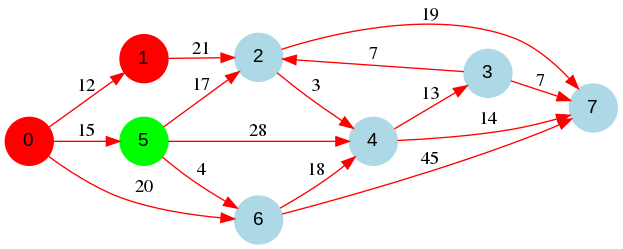
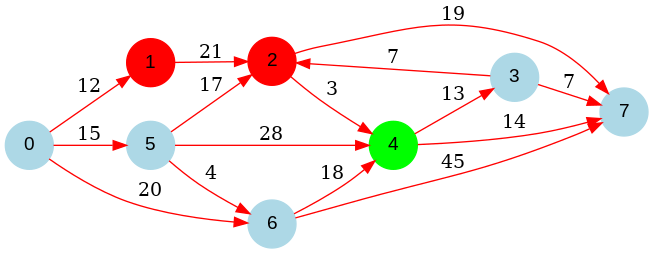
Correction pour un sommet de départ différent de 0

diff --git a/programme1/main.c b/programme1/main.c
@@ -81,7 +81,7 @@ void courtChemie(T_graphMD * g, int * D, int * T, int * Pred, int sr, char * fil
   int indiceDansF[g->nbVertices];
 
   for(u=0;u<g->nbVertices;u++) {
-    Pred[u] = 0;
+    Pred[u] = -1;
     if(u == sr) {
       D[u] = 0;
       F[0] = u;
@@ -97,13 +97,15 @@ void courtChemie(T_graphMD * g, int * D, int * T, int * Pred, int sr, char * fil
 
   while(k<g->nbVertices) {
     u = F[k];
-    T[u] = 1;
-    createPNG(filename, g, u, T, k);
+    if (D[u] != INT_MAX) {
+      T[u] = 1;
+      createPNG(filename, g, u, T, k);
+    }
     k++;
     for(v=0;v<g->nbVertices;v++) {
-      if ((v!=u) & (g->mat[u][v] != INT_MAX)) {
-        if (D[v] > D[u] + g->mat[u][v]) {
+      if ((v!=u) && (g->mat[u][v] != INT_MAX)) {
 
+        if ((D[v] > D[u] + g->mat[u][v]) && (D[u] != INT_MAX)) {
           D[v] = D[u] + g->mat[u][v];
           Pred[v] = u;
           majDijkstra(F,D,v,k,indiceDansF);
@@ -119,7 +121,7 @@ void courtChemie(T_graphMD * g, int * D, int * T, int * Pred, int sr, char * fil
   char fileNameComplet[150] = "";
   sprintf(fileNameComplet, "output/pngFiles/%s/%s", filename, filename);
 
-  char command[300]="";
+  char command[400]="";
   sprintf(command,"ffmpeg -r 1 -s 1920x1080 -i %s_%%1d.png -vcodec libx264 -crf 25 -y -loglevel quiet  %s.mp4",fileNameComplet,fileNameComplet);
   
   system(command);
@@ -140,5 +142,14 @@ void majDijkstra(int * F, int * D, int v, int k, int * indiceDansF) {
     indiceDansF[F[(i/2)+k]] = (i/2)+k;
 
     i = i/2;
+  }
+  if (D[F[(i/2)+k]] > D[F[i+k]]) {
+
+    c = F[i+k];
+    F[i+k] = F[(i/2)+k];
+    F[(i/2)+k] = c;
+
+    indiceDansF[F[i+k]] = i+k;
+    indiceDansF[F[(i/2)+k]] = (i/2)+k;
   }
 }
